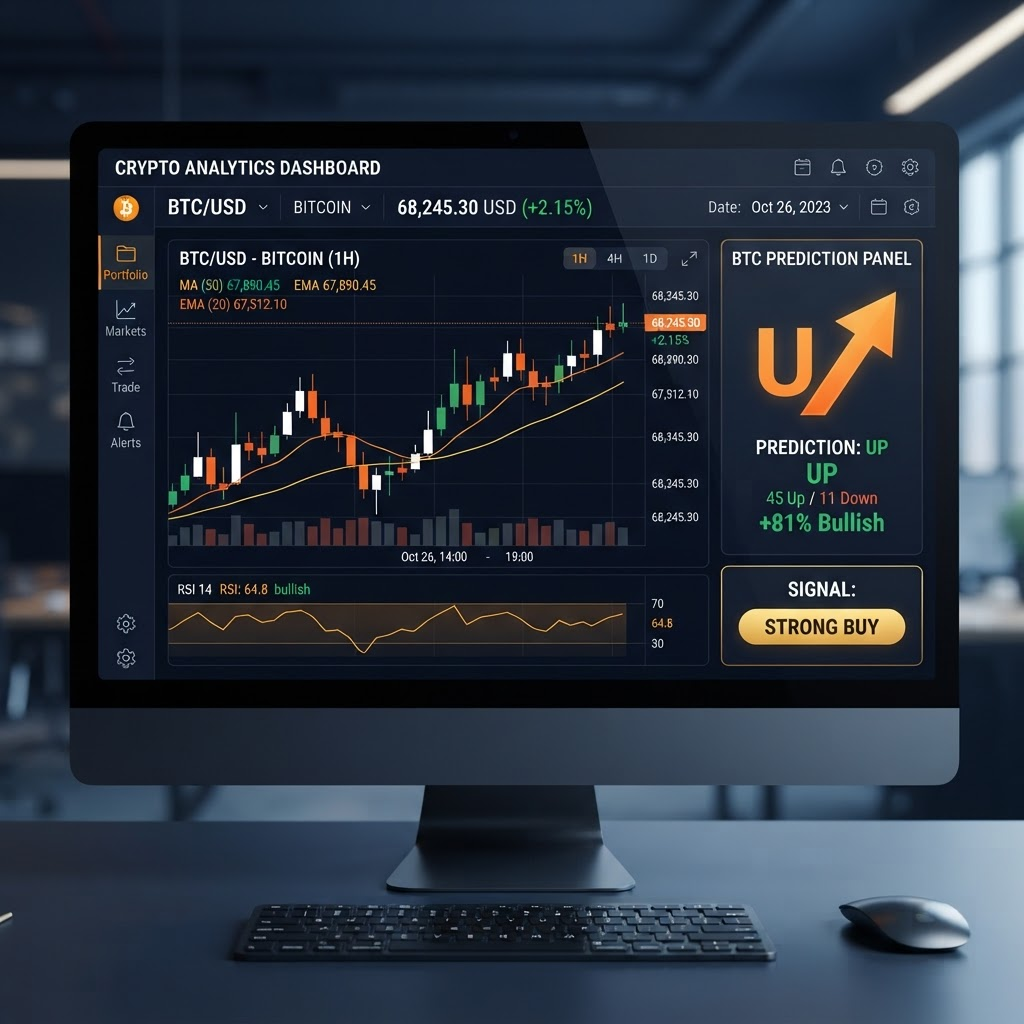
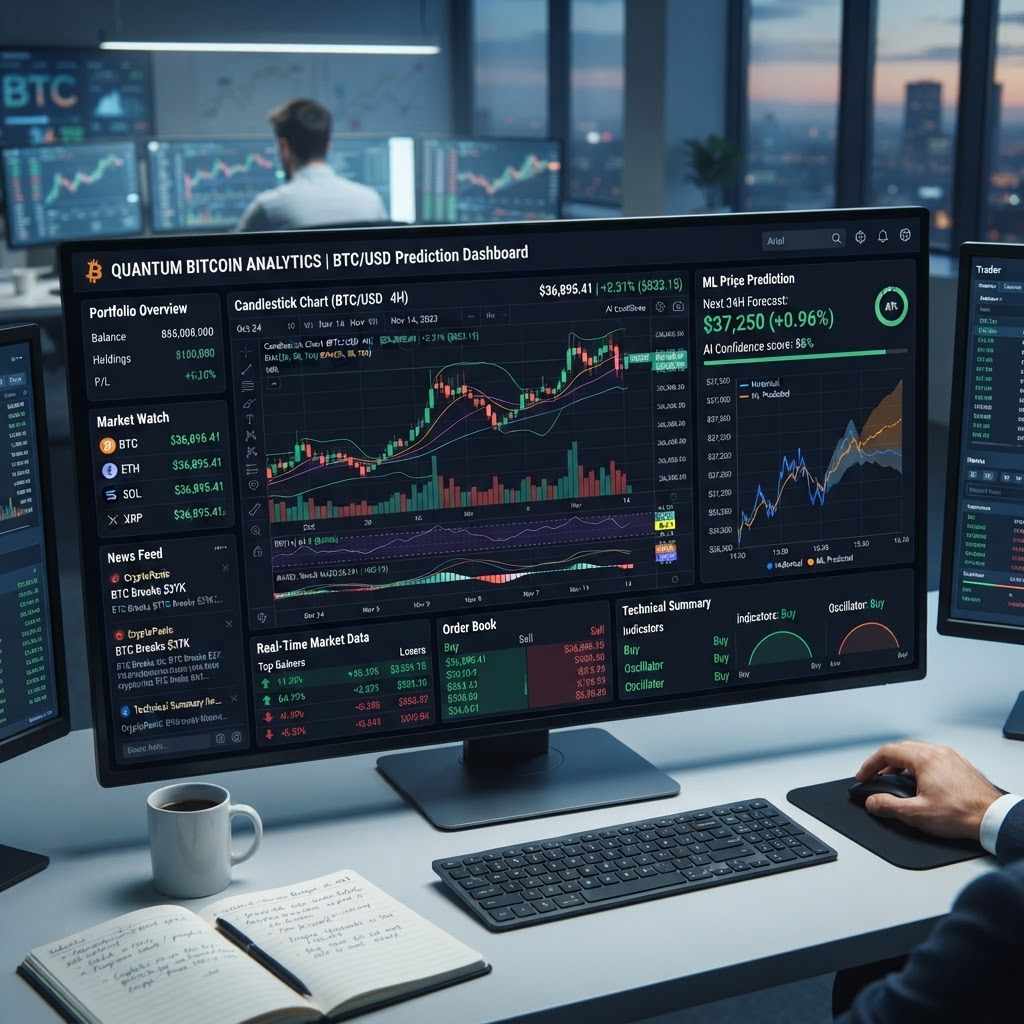
feat: update contact form message and project details; change profile image format; add new project VoiceFlow

diff --git a/components/projects.tsx b/components/projects.tsx
@@ -7,13 +7,13 @@ import { Badge } from "@/components/ui/badge"
 
 const projects = [
   {
-    title: "Cardio.AI - Heart Disease Prediction",
+    title: "VoiceFlow - Speech Recognition App",
     description:
-      "An intelligent web-based healthcare app that predicts heart disease risk by analyzing 11 medical parameters through ML classification. Built with Flask & SQLite, featuring a responsive dashboard, trained Scikit-Learn model, and real-time prediction results.",
-    tags: ["Python", "Flask", "Scikit-Learn", "SQLite", "Bootstrap", "HTML"],
-    github: "https://github.com/iamHimanshu-07/Cardio.AI",
-    live: "https://cardio-ai-j1pa.onrender.com",
-    image: "/images/heart-disease.jpg",
+      "A modern, AI-powered speech recognition web app with real-time voice-to-text conversion, multi-language support, live audio visualization, transcript download, and light/dark themes. Built with Next.js 16 and React 19.",
+    tags: ["Next.js", "React", "TypeScript", "Tailwind CSS", "Web Speech API"],
+    github: "https://github.com/iamHimanshu-07/VoiceFlow",
+    live: "https://speech-recognition-web-rho.vercel.app",
+    image: "/images/speech-recognition.png",
   },
   {
     title: "MindPulse.AI - Mental Health Analyzer",
@@ -22,16 +22,25 @@ const projects = [
     tags: ["Python", "NLP", "Scikit-Learn", "Streamlit", "TF-IDF", "RandomForest"],
     github: "https://github.com/iamHimanshu-07/MindPulse.AI",
     live: "https://mindpulseai.streamlit.app",
-    image: "/images/mental-health.jpg",
+    image: "/images/mental-health.png",
   },
   {
-    title: "VoiceFlow - Speech Recognition App",
+    title: "Cardio.AI - Heart Disease Prediction",
     description:
-      "A modern, AI-powered speech recognition web app with real-time voice-to-text conversion, multi-language support, live audio visualization, transcript download, and light/dark themes. Built with Next.js 16 and React 19.",
-    tags: ["Next.js", "React", "TypeScript", "Tailwind CSS", "Web Speech API"],
-    github: "https://github.com/iamHimanshu-07/VoiceFlow",
-    live: "https://speech-recognition-web-rho.vercel.app",
-    image: "/images/speech-recognition.jpg",
+      "An intelligent web-based healthcare app that predicts heart disease risk by analyzing 11 medical parameters through ML classification. Built with Flask & SQLite, featuring a responsive dashboard, trained Scikit-Learn model, and real-time prediction results.",
+    tags: ["Python", "Flask", "Scikit-Learn", "SQLite", "Bootstrap", "HTML"],
+    github: "https://github.com/iamHimanshu-07/Cardio.AI",
+    live: "https://cardio-ai-j1pa.onrender.com",
+    image: "/images/heart-disease.png",
+  },
+  {
+    title: "TransitOps - Smart Transport Operations Platform",
+    description:
+      "An intelligent transport operations platform designed to optimize vehicle routing, fleet management, and real-time tracking. Built with modern web technologies to streamline logistics and improve operational efficiency for transport businesses.",
+    tags: ["Node.js", "React", "MongoDB", "Real-time Tracking", "Fleet Management"],
+    github: "https://github.com/iamHimanshu-07/TransitOps-Smart-Transport-Operations-Platform",
+    live: "#",
+    image: "/images/transitops.png",
   },
   {
     title: "CryptoCast - Bitcoin Price Predictor",
@@ -49,7 +58,7 @@ const projects = [
     tags: ["Python", "Scikit-Learn", "Pandas", "NumPy", "Collaborative Filtering"],
     github: "https://github.com/iamHimanshu-07/Movie-Recommendation-System",
     live: "#",
-    image: "/images/movie-recommendation.jpg",
+    image: "/images/movie-recommendation.png",
   },
   {
     title: "SMS Spam Classifier",

diff --git a/components/contact.tsx b/components/contact.tsx
@@ -31,7 +31,7 @@ export function Contact() {
             Let&apos;s Work Together
           </h2>
           <p className="text-muted-foreground text-lg">
-            Have a project in mind or want to discuss opportunities? I&apos;d love to hear from you.
+            Have a project in mind or want to discuss opportunities? Please connect directly via email or phone.
           </p>
         </div>
 

diff --git a/components/hero.tsx b/components/hero.tsx
@@ -98,7 +98,7 @@ export function Hero() {
                 {/* Image */}
                 <div className="relative overflow-hidden rounded-2xl border-2 border-primary/20">
                   <Image
-                    src="/images/himanshu-profile.jpg"
+                    src="/images/himanshu-profile.png"
                     alt="Himanshu Singh Yadav - AI/ML Engineer"
                     width={380}
                     height={480}